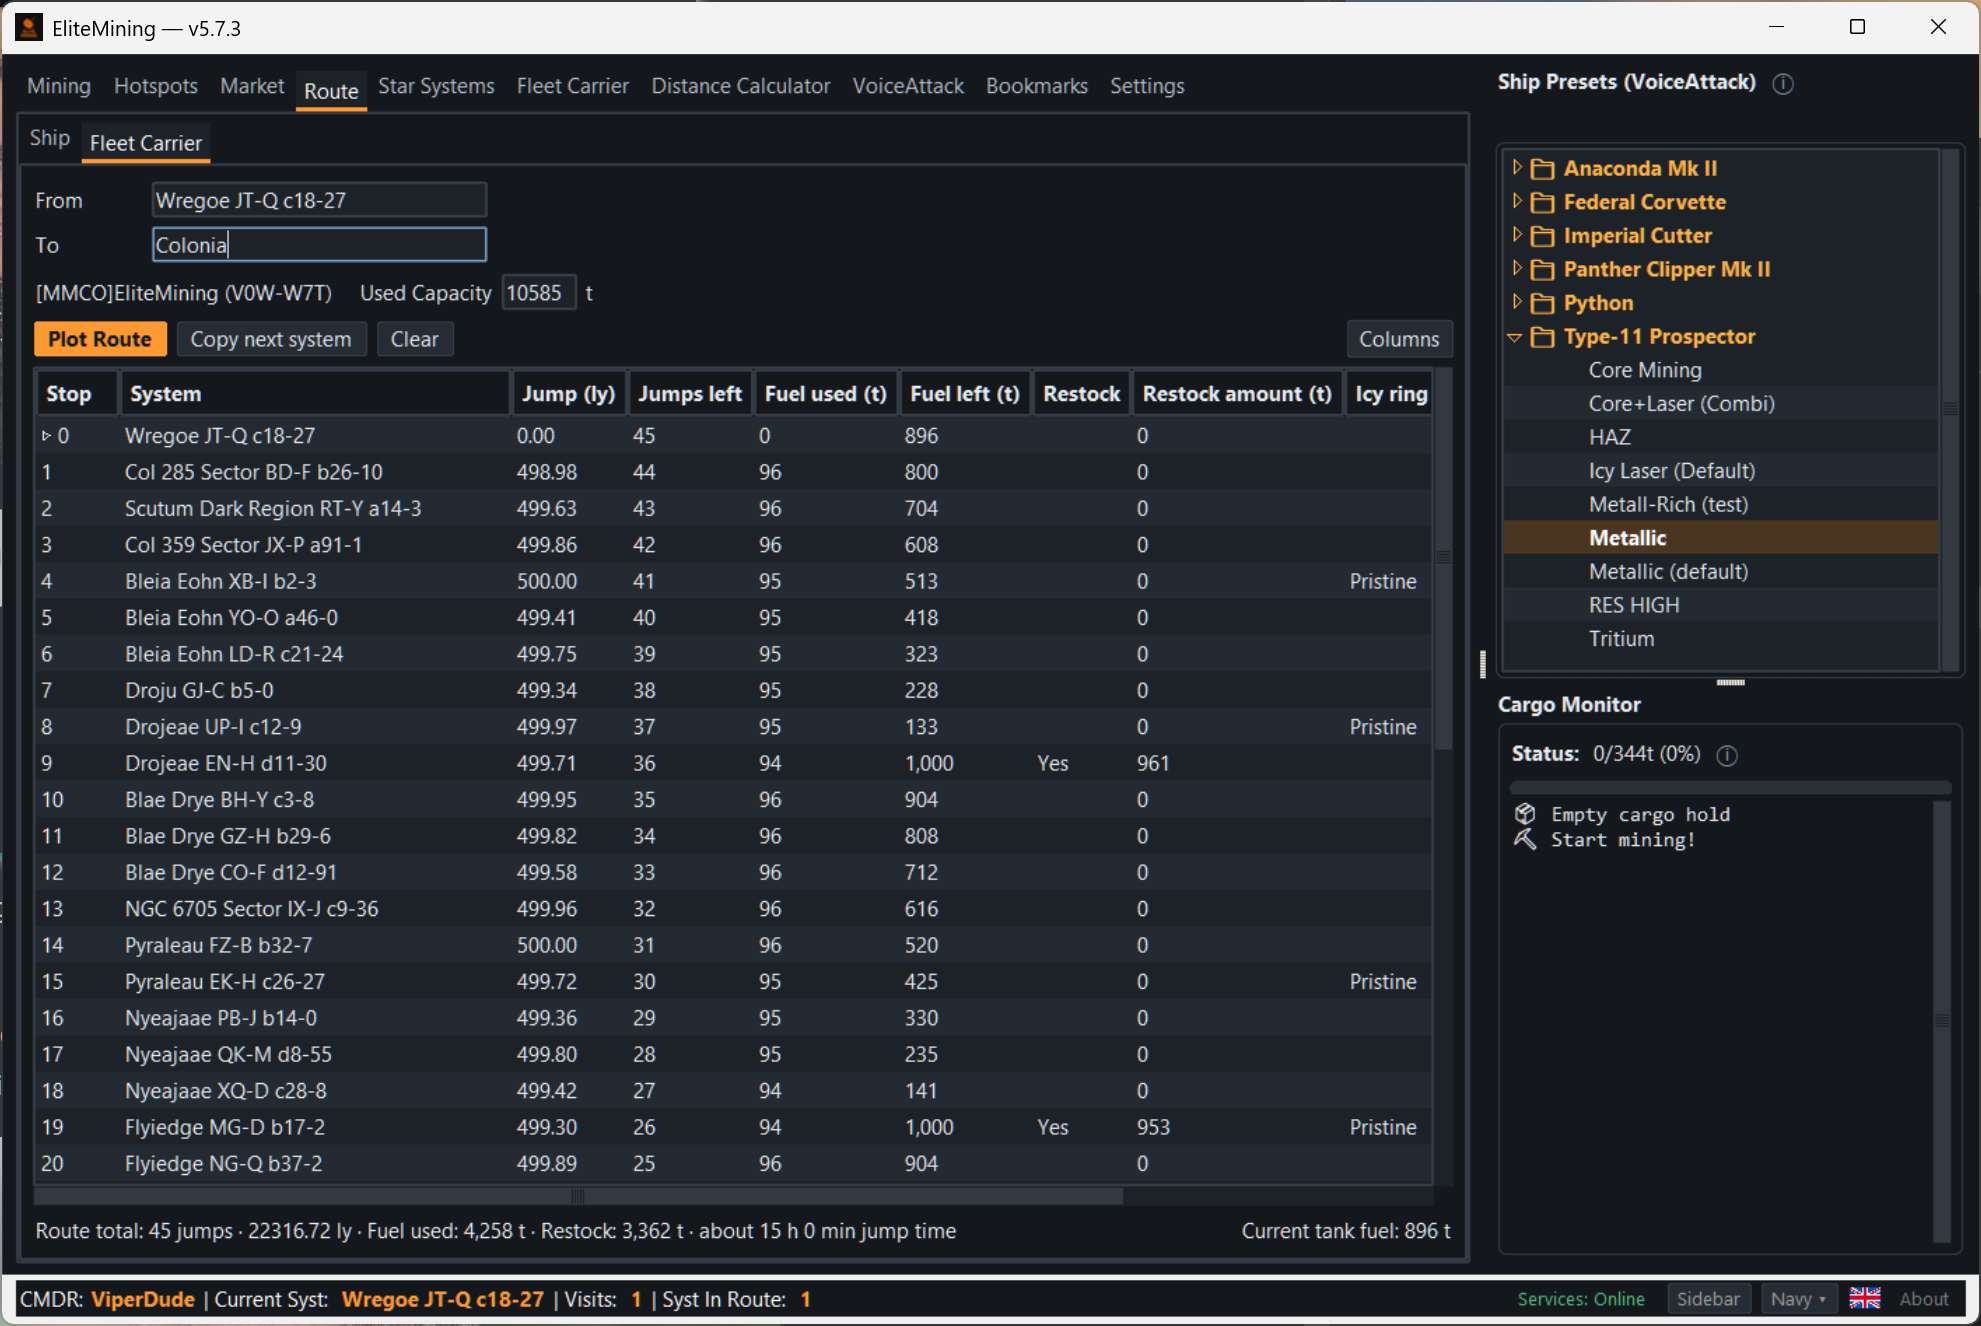
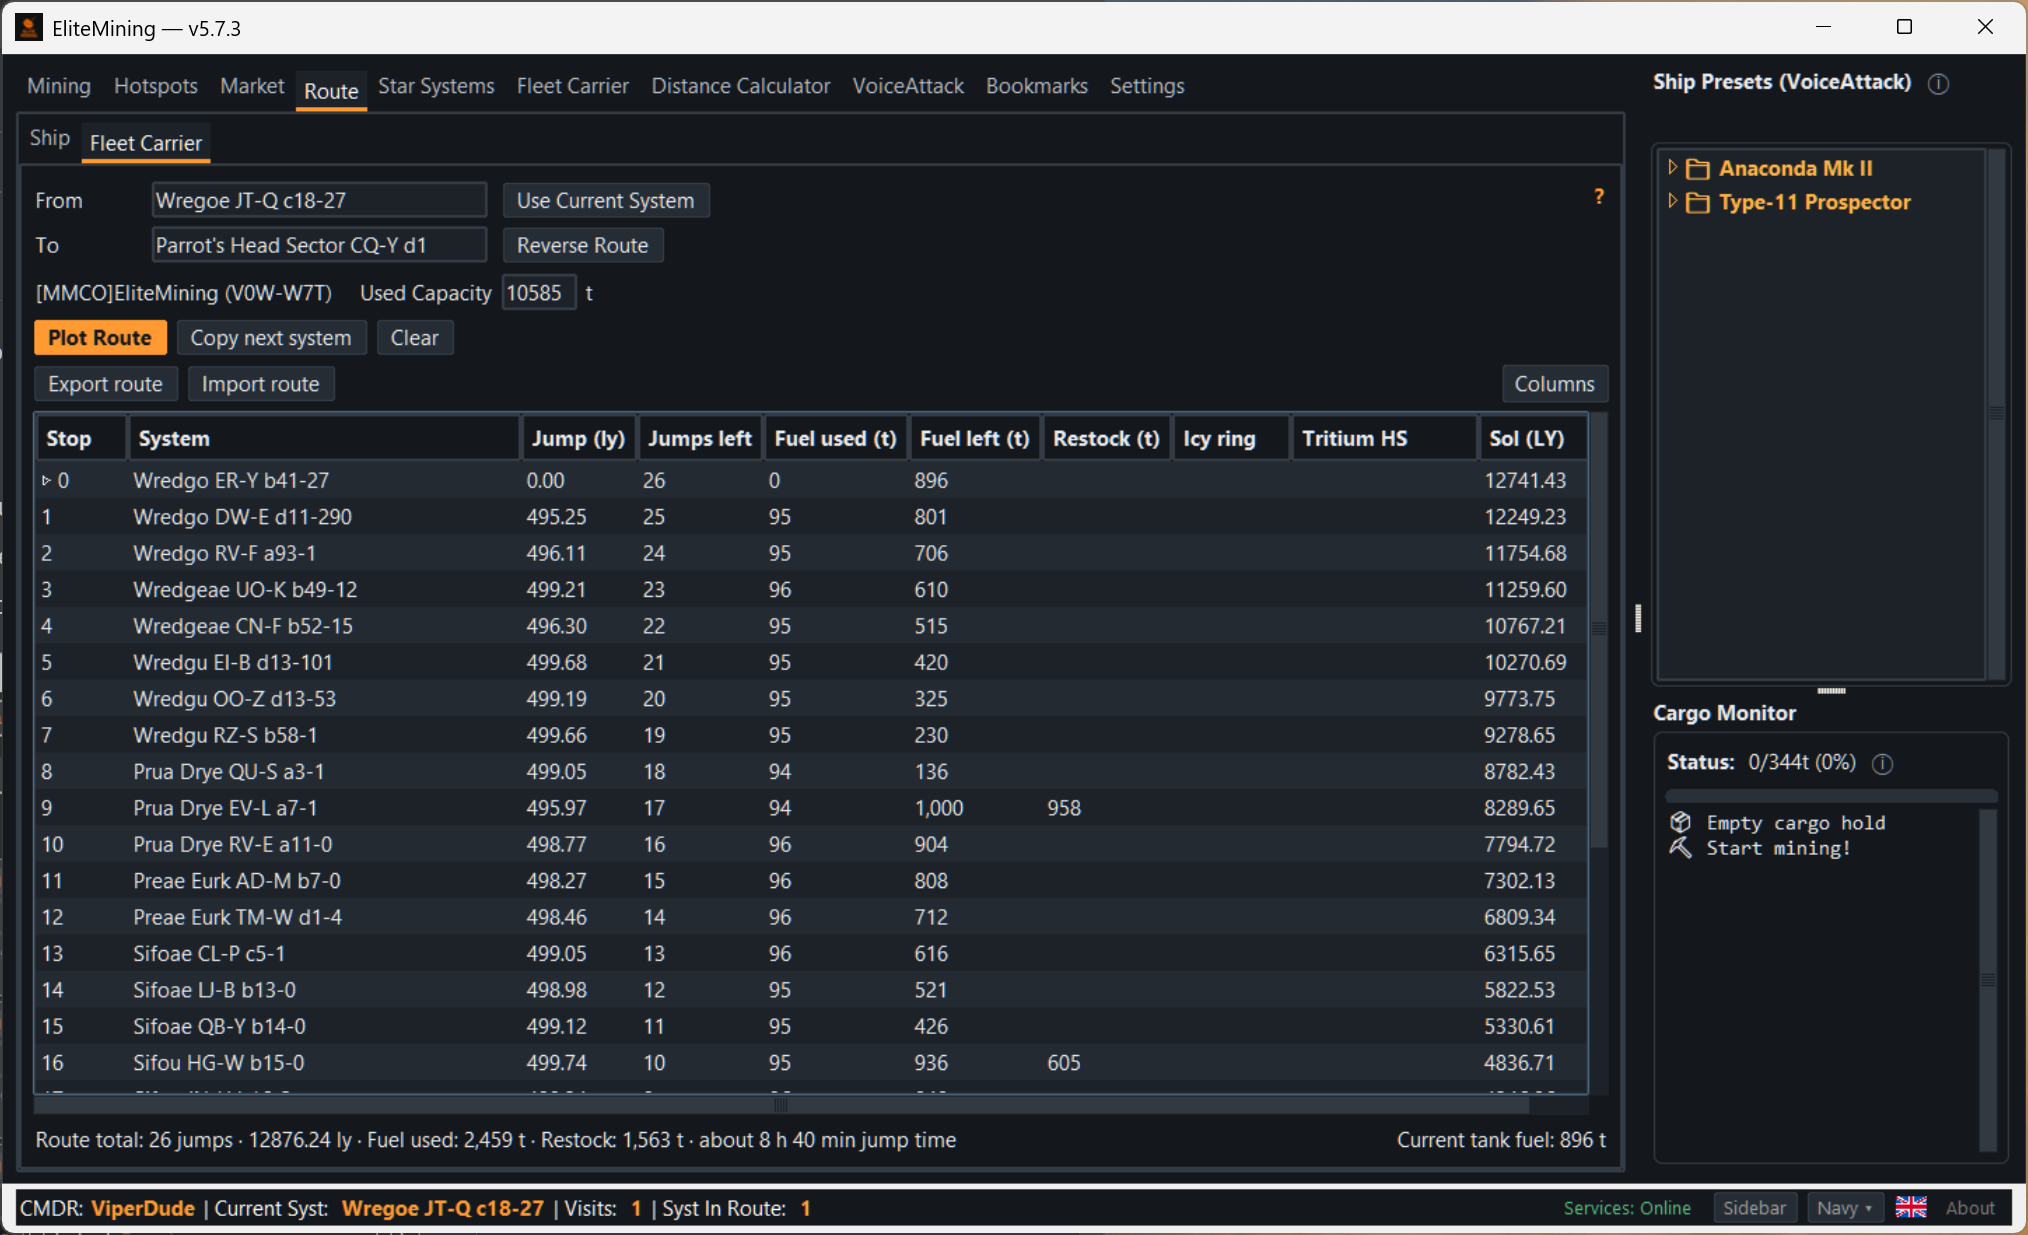
v5.7.3: Clarify Fleet Carrier route controls and refresh screenshots

diff --git a/app/fleet_carrier_route_tab.py b/app/fleet_carrier_route_tab.py
@@ -18,7 +18,7 @@ from system_autocomplete import SystemAutocomplete
 from ui.help_link import create_help_link
 from ui.search_control import SearchControl
 from ui.theme import get_theme_colors
-from ui.tooltip import ToolTip
+from ui.tooltip import ToolTip, add_header_tooltips
 
 
 log = logging.getLogger("EliteMining")
@@ -62,6 +62,7 @@ class FleetCarrierRouteTab(ttk.Frame, RouteTableMixin):
         fields.pack(fill="x")
         fields.columnconfigure(0, minsize=scaled_px(80))
         fields.columnconfigure(1, minsize=scaled_px(250))
+        fields.columnconfigure(2, weight=1)
         for row, (key, variable) in enumerate((("from", self.source), ("to", self.destination))):
             ttk.Label(fields, text=t(f"route.{key}"), font=scaled_font(9)).grid(
                 row=row, column=0, sticky="w", pady=scaled_px(3))
@@ -133,6 +134,8 @@ class FleetCarrierRouteTab(ttk.Frame, RouteTableMixin):
             "icy_ring": 95, "tritium_hotspots": 125, "sol": 120,
         }
         self._build_route_table(widths, {"sol": "ring_finder.col_sol_dist"}, _TABLE_KEY)
+        add_header_tooltips(self.tree, lambda column: t("route.tritium_hotspots_tooltip")
+                            if column == "tritium_hotspots" else "")
         self.tree.bind("<Button-3>", self._show_row_menu)
 
     def _validate_capacity(self, value):

diff --git a/README.md b/README.md
@@ -439,7 +439,7 @@ Plot a jump route from one system to another in the **Route** tab. Enter a start
 
 If you leave the route, plot a new one from where you are. Routes are planned with Spansh.
 
-<img src="Screenshot/route_planner.png" alt="Route tab showing a plotted route with stops, jump distances, scoopable stars and refuel stops" width="900"><br>
+<img src="Screenshot/route_planner_ship.png" alt="Route tab showing a plotted route with stops, jump distances, scoopable stars and refuel stops" width="900"><br>
 *Route tab with a plotted route, jump range and cargo, and the next-system buttons.*
 
 ### Fleet Carrier Route Planner
